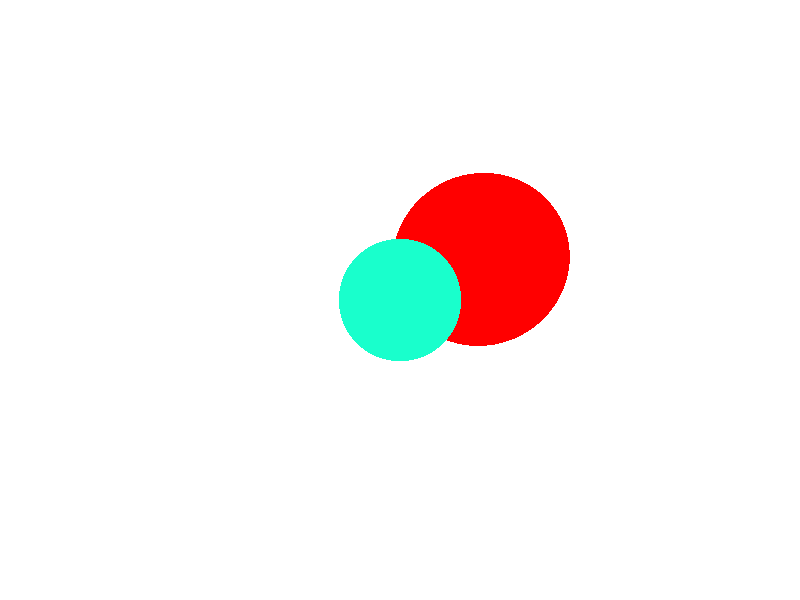
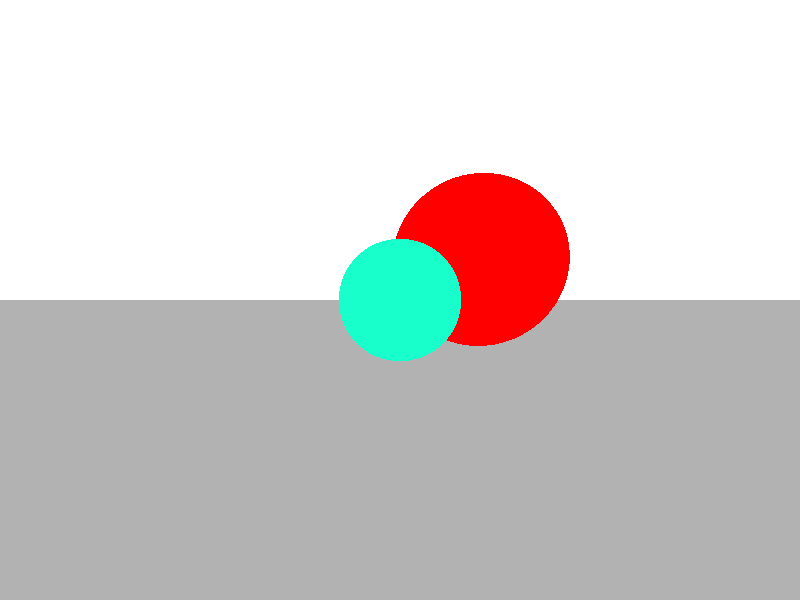
Add support for planes

diff --git a/src/main.rs b/src/main.rs
@@ -33,18 +33,38 @@ pub struct Sphere {
     pub color: Color,
 }
 
+pub struct Plane {
+    pub origin: Point,
+    pub normal: Vector3,
+    pub color: Color,
+}
+
+pub enum Body {
+    Sphere(Sphere),
+    Plane(Plane),
+}
+
+impl Body {
+    pub fn color(&self) -> &Color {
+        match *self {
+            Body::Sphere(ref sphere) => &sphere.color,
+            Body::Plane(ref plane) => &plane.color,
+        }
+    }
+}
+
 pub struct Scene {
     pub width: u32,
     pub height: u32,
     pub fov: f64,
-    pub spheres: Vec<Sphere>,
+    pub bodies: Vec<Body>,
 }
 
 impl Scene {
     pub fn trace(&self, ray: &Ray) -> Option<Intersection> {
-        self.spheres
+        self.bodies
             .iter()
-            .filter_map(|s| s.intersect(ray).map(|d| Intersection::new(d, s)))
+            .filter_map(|body| body.intersect(ray).map(|d| Intersection::new(d, body)))
             .min_by(|i1, i2| i1.distance.partial_cmp(&i2.distance).unwrap())
     }
 }
@@ -130,16 +150,43 @@ impl Intersectable for Sphere {
     }
 }
 
+impl Intersectable for Plane {
+    fn intersect(&self, ray: &Ray) -> Option<f64> {
+        let normal = &self.normal;
+        let denominator = normal.dot(&ray.direction);
+        if denominator > 1e-6 {
+            let v = self.origin - ray.origin;
+            let distance = v.dot(&normal) / denominator;
+            if distance >= 0.0 {
+                Some(distance)
+            } else {
+                None
+            }
+        } else {
+            None
+        }
+    }
+}
+
+impl Intersectable for Body {
+    fn intersect(&self, ray: &Ray) -> Option<f64> {
+        match *self {
+            Body::Sphere(ref sphere) => sphere.intersect(ray),
+            Body::Plane(ref plane) => plane.intersect(ray),
+        }
+    }
+}
+
 pub struct Intersection<'a> {
     pub distance: f64,
-    pub object: &'a Sphere,
+    pub body: &'a Body,
 }
 
 impl<'a> Intersection<'a> {
-    pub fn new<'b>(distance: f64, object: &'b Sphere) -> Intersection<'b> {
+    pub fn new<'b>(distance: f64, body: &'b Body) -> Intersection<'b> {
         Intersection {
             distance: distance,
-            object: object,
+            body: body,
         }
     }
 }
@@ -148,8 +195,8 @@ pub fn render(scene: &Scene) -> ImageBuffer<Rgba<u8>, Vec<u8>> {
     let mut image = ImageBuffer::new(scene.width, scene.height);
     for (x, y, pixel) in image.enumerate_pixels_mut() {
         let ray = Ray::create_prime(x, y, scene);
-        if let Some(Intersection { object, .. }) = scene.trace(&ray) {
-            *pixel = object.color.rgba();
+        if let Some(Intersection { body, .. }) = scene.trace(&ray) {
+            *pixel = body.color().rgba();
         }
     }
 
@@ -161,32 +208,49 @@ fn main() {
         width: 800,
         height: 600,
         fov: 90.0,
-        spheres: vec![Sphere {
-                          center: Point {
-                              x: 0.0,
-                              y: 0.0,
-                              z: -5.0,
-                          },
-                          radius: 1.0,
-                          color: Color {
-                              red: 0.1,
-                              green: 1.0,
-                              blue: 0.8,
-                          },
-                      },
-                      Sphere {
-                          center: Point {
-                              x: 2.0,
-                              y: 1.0,
-                              z: -8.0,
-                          },
-                          radius: 2.2,
-                          color: Color {
-                              red: 1.0,
-                              green: 0.0,
-                              blue: 0.0,
-                          },
-                      }],
+        bodies: vec![Body::Plane(Plane {
+                                     origin: Point {
+                                         x: 0.0,
+                                         y: -2.0,
+                                         z: -5.0,
+                                     },
+                                     normal: Vector3 {
+                                         x: 0.0,
+                                         y: -1.0,
+                                         z: 0.0,
+                                     },
+                                     color: Color {
+                                         red: 0.7,
+                                         green: 0.7,
+                                         blue: 0.7,
+                                     },
+                                 }),
+                     Body::Sphere(Sphere {
+                                      center: Point {
+                                          x: 0.0,
+                                          y: 0.0,
+                                          z: -5.0,
+                                      },
+                                      radius: 1.0,
+                                      color: Color {
+                                          red: 0.1,
+                                          green: 1.0,
+                                          blue: 0.8,
+                                      },
+                                  }),
+                     Body::Sphere(Sphere {
+                                      center: Point {
+                                          x: 2.0,
+                                          y: 1.0,
+                                          z: -8.0,
+                                      },
+                                      radius: 2.2,
+                                      color: Color {
+                                          red: 1.0,
+                                          green: 0.0,
+                                          blue: 0.0,
+                                      },
+                                  })],
     };
 
     let start = PreciseTime::now();
